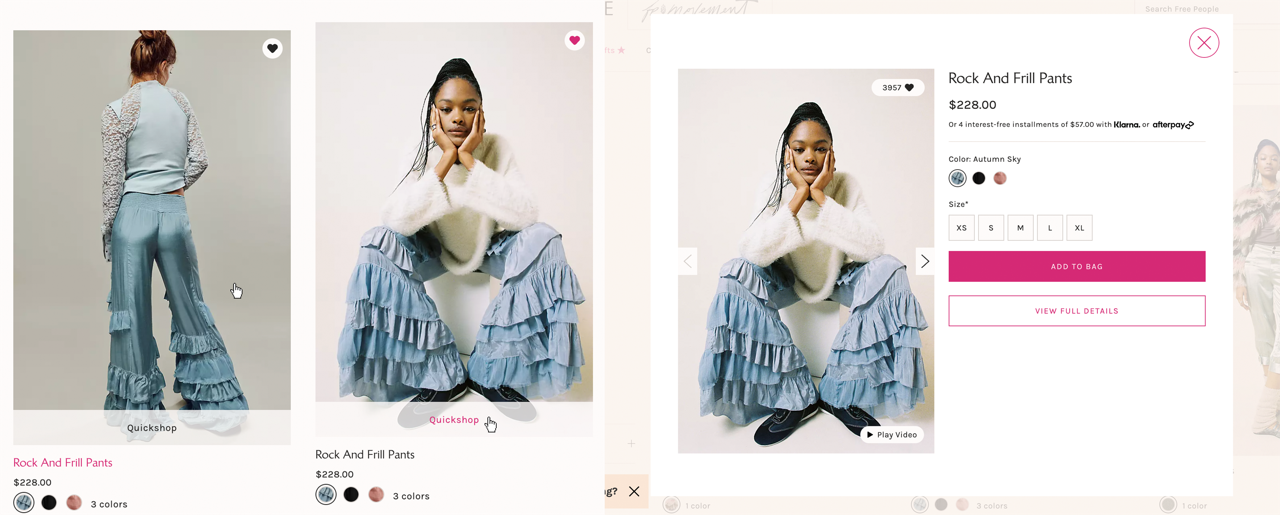
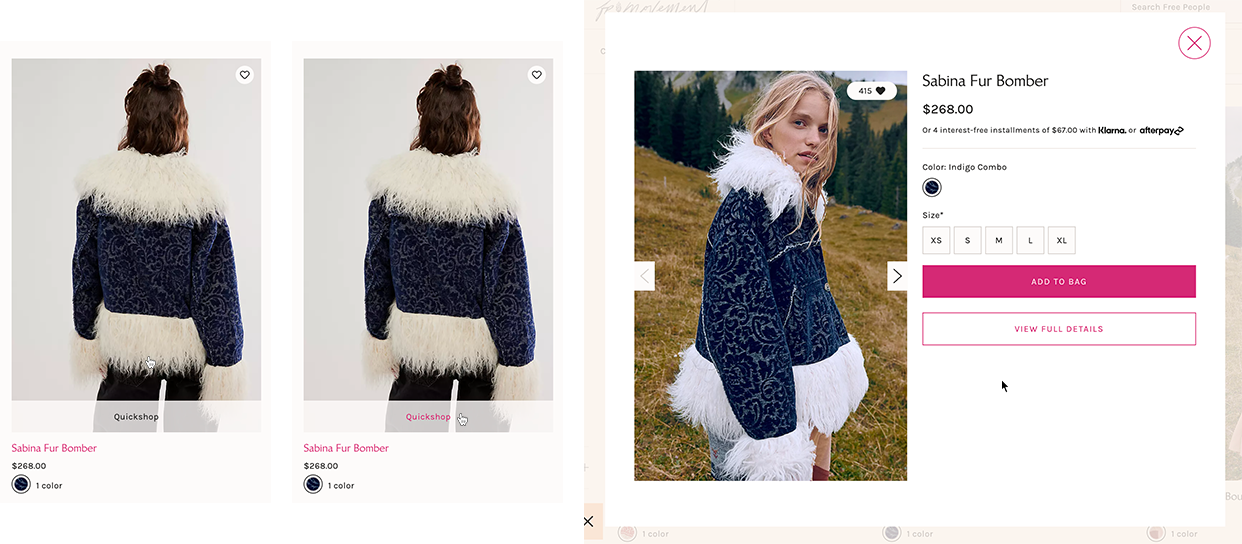
:tada: final

diff --git a/idm241/final/index.html b/idm241/final/index.html
@@ -7,19 +7,12 @@
     <link rel="preconnect" href="https://fonts.googleapis.com">
     <link rel="preconnect" href="https://fonts.gstatic.com" crossorigin>
     <link href="https://fonts.googleapis.com/css2?family=Abril+Fatface&family=Karla:wght@200&display=swap" rel="stylesheet">
-    <title> Ella Fromherz Beta </title>
+    <title> Ella Fromherz Final </title>
   </head>
 
   <body>
 
-    <h1> Beta </h1>
-
-
-    <!-- <div class="product-card">
-      <div class="product-image">
-          <img src="images/img1.png" alt="hover photo">
-      </div>
-     </div> -->
+    <h1> Final </h1>
 
     
     <!-- <div class="product_card">
@@ -73,20 +66,26 @@
         
       </div>
     </div> -->
-
+  <div class="text">
     <ul>
-     <li><a href="https://www.freepeople.com/whats-new/" target="_blank" class="hover-link"> Link to Free People product page </a></li> 
-      
+      <li><a href="https://www.freepeople.com/whats-new/" target="_blank" class="hover-link"> Link to Free People product page </a></li>
+       
       <h3>Triggers</h3>  
       <p>hover over/off</p>
       <li>User hovers over or off the over the product image.</li>
       <li>User hovers over or off the heart button.</li>
       <li>User hovers over or off the "Quickshop" button.</li>
+      <li>User hovers over or off the size buttons.</li>
+      <li>User hovers over or off the "Add to Cart" button.</li>
+      <li>User hovers over or off the "View Full Details" button.</li>
       
       <p>click</p>
       <li>User clicks on "Quickshop" button.</li>
       <li>User clicks on the close button on modal or off of the "Quickshop" modal.</li>
       <li>User clicks on the heart button.</li>
+      <li>User clicks on the size buttons.</li>
+      <li>User clicks on the "Add to Cart" button.</li>
+      
       
       
       <h3>Rules</h3>     
@@ -112,12 +111,25 @@
       <p>click on</p>
       <li>A product modal opens (expands out from middle) displaying additional product information not seen on the product card.</li>
       <li>Page behind modal is blurred/has a tan overlay</li>
+      <li>When clicking on "Add to Cart", the product is added to the cart on the "cart" page</li>
+      <li>When clicking on "Add to Cart", the text changes to "Added to Cart" in green, the button outline is green with a white fill</li>
+      <li>When clicking on a size, the product size is updated</li>
+      <li>When clicking on a size, the button changes to a black outline with white fill</li>
+
+      <p>hover</p>
+      <li>When hovering over product sizes, they change to a pink fill with a black outline</li>
+      <li>When hovering off product sizes, they change to a grey outline with light pink fill</li>
+      <li>When hovering over "Add to Cart", the button changes to a pink outline and white fill with pink text</li>
+      <li>When hovering off "Add to Cart", the button changes to a pink fill with white text</li>
+      <li>When hovering over "View Full Details", the button changes to a pink fill with white text.</li>
+      <li>When hovering off "View Full Details", the button changes to a pink outline and white fill with pink text</li>
 
       <p><strong><em>Favorites</em></strong></p>
       <p>click on</p>
       <li>The heart fills to solid pink</li>
-      <li>Quickshop button disapears</li>
+      <li>The "Quickshop" button disapears</li>
       <li>Product is added to a favorites list on the "favorites" page</li>
+
 
       
       <h3>Feedback</h3>  
@@ -143,11 +155,21 @@
       <p>click on</p>
       <li>A product modal opens (expands out from middle) displaying additional product information not seen on the product card.</li>
       <li>Page behind modal is blurred/has a tan overlay</li>
+      <li>When clicking on "Add to Cart", the text changes to "Added to Cart" in green, the button outline is green with a white fill</li>
+      <li>When clicking on a size, the button changes to a black outline with white fill</li>
+
+      <p>hover</p>
+      <li>When hovering over product sizes, they change to a pink fill with a black outline</li>
+      <li>When hovering off product sizes, they change to a grey outline with light pink fill</li>
+      <li>When hovering over "Add to Cart", the button changes to a pink outline and white fill with pink text</li>
+      <li>When hovering off "Add to Cart", the button changes to a pink fill with white text</li>
+      <li>When hovering over "View Full Details", the button changes to a pink fill with white text.</li>
+      <li>When hovering off "View Full Details", the button changes to a pink outline and white fill with pink text</li>
 
       <p><strong><em>Favorites</em></strong></p>
       <p>click on</p>
       <li>The heart fills to solid pink</li>
-      <li>Quickshop button disapears</li>
+      <li>The "Quickshop" button disapears</li>
       
 
       <h3>Loops & Modes</h3> 
@@ -156,24 +178,46 @@
       <li>New buttons, "Quickshop" and the heart button appear after a user hovers over a product image.</li>
 
       <p>click (quickshop)</p>
-      <li>When modal opens, new buttons, "add to cart" and "view full details" appear, along with the product image, 
+      <li>When modal opens, new buttons, "Add to Cart" and "View Full Details" appear, along with the product image, 
         title, price, sizing options, and color options depending on product.</li>
+ 
+       <!-- <h3>Improvements</h3> 
+       <li> There is now a fade transition when hovering over/off of the product image (Used to be a hard switch). </li>
+       <li> There is now a fade transition when hoving over/off of the quickshop and favorites buttons (Used to be a hard switch). </li>
+       <li> There is now a fade transition when clicking on/off of the quickshop when modal opens and closes (Used to be a hard switch). </li>
+       <li> There is now a fade transition when clicking on/off of the favorites button (Used to be a hard switch). </li>
+      </ul>  -->
+  </div>
 
+  <h3>Hover (image change)</h3>
+    <img
+    src="images/hover.png"
+    alt="hover">
 
-
-      <!-- <h3>Improvements</h3> 
-      <li> There is now a fade transition when hovering over/off of the product image (Used to be a hard switch). </li>
-    </ul> -->
-
-  <h3>Add to Favotites</h3>
+    <h3>Add to Favorites</h3>
     <img
     src="images/favorites.png"
-    alt="add to favs">
+    alt="add to favorites">
 
     <h3>Quickshop</h3>
     <img
     src="images/quickshop.png"
     alt="quickshop modal">
+
+    <h3>Select Size</h3>
+    <img
+    src="images/size.png"
+    alt="select size">
+
+    <h3>Add to Cart</h3>
+    <img
+    src="images/cart.png"
+    alt="add to cart">
+
+    <h3>View Full Details</h3>
+    <img
+    src="images/details.png"
+    alt="details">
 
 
     <script>

diff --git a/idm241/final/build/index.html b/idm241/final/build/index.html
@@ -7,12 +7,12 @@
     <link rel="preconnect" href="https://fonts.googleapis.com">
     <link rel="preconnect" href="https://fonts.gstatic.com" crossorigin>
     <link href="https://fonts.googleapis.com/css2?family=Abril+Fatface&family=Karla:wght@200&display=swap" rel="stylesheet">
-    <title> Ella Fromherz Beta Build</title>
+    <title> Ella Fromherz Final Build</title>
   </head>
 
   <body>
 
-    <h1> Beta Build </h1>
+    <h1> Final Build </h1>
 
 
     <!-- <div class="product-card">

diff --git a/idm241/final/styles.css b/idm241/final/styles.css
@@ -18,6 +18,8 @@ body {
     padding: 1rem; 
 }
 
+.text
+
 /* fonts */
 h1 {
     font-family: 'Abril Fatface', cursive;
@@ -78,7 +80,7 @@ a:visited {
 }
 
 img {
-  min-width: 80%;
+  max-width: 100%;
   padding: .5rem;
   margin: .5rem;
 }
@@ -397,7 +399,7 @@ p.product_desc {
     }
 
     img {
-      max-width: 95%;
+      max-width: 100%;
     }
     }
     
@@ -453,7 +455,7 @@ p.product_desc {
     }
 
     img {
-      max-width: 95%;
+      max-width: 100%;
     }
     
 
